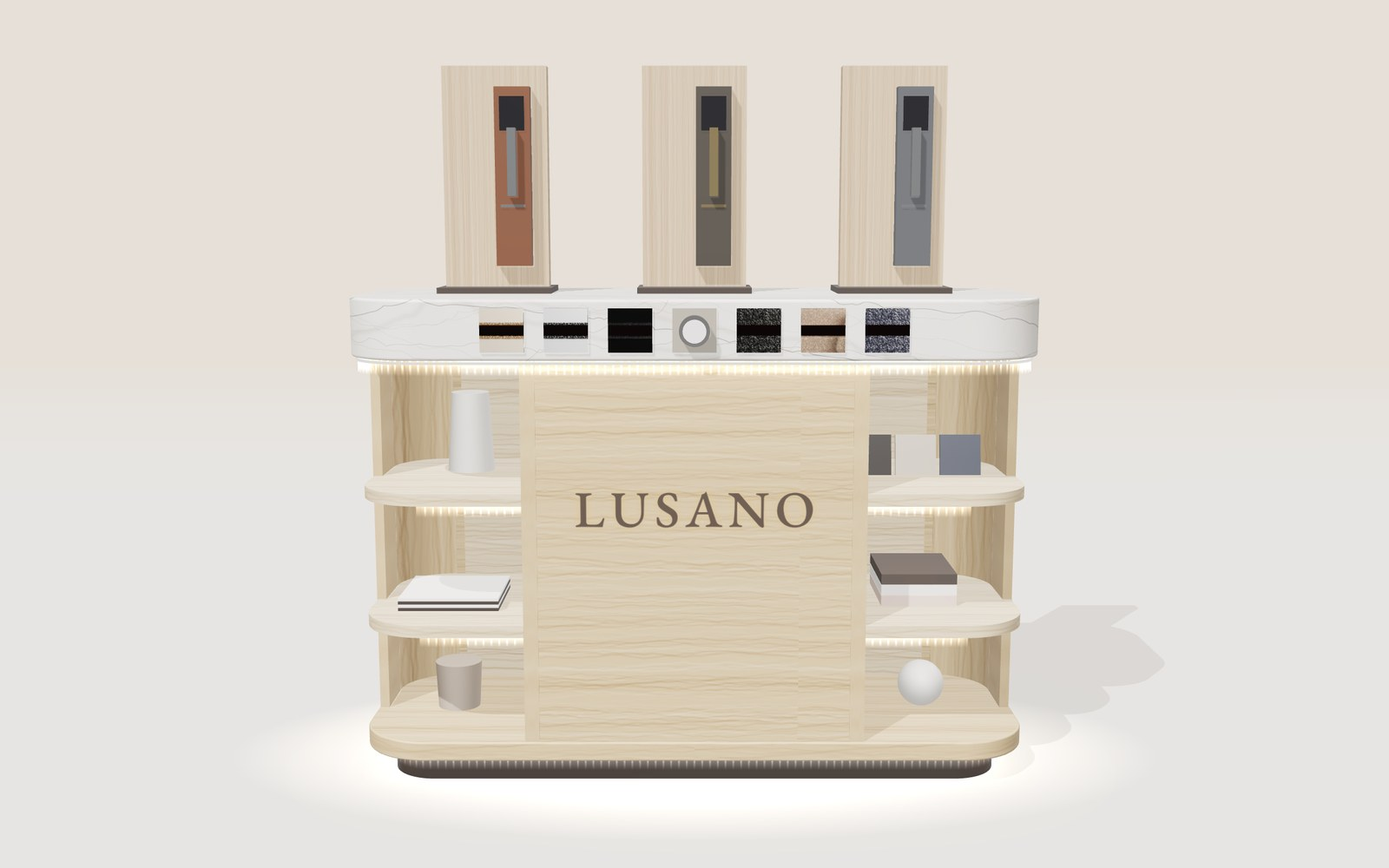
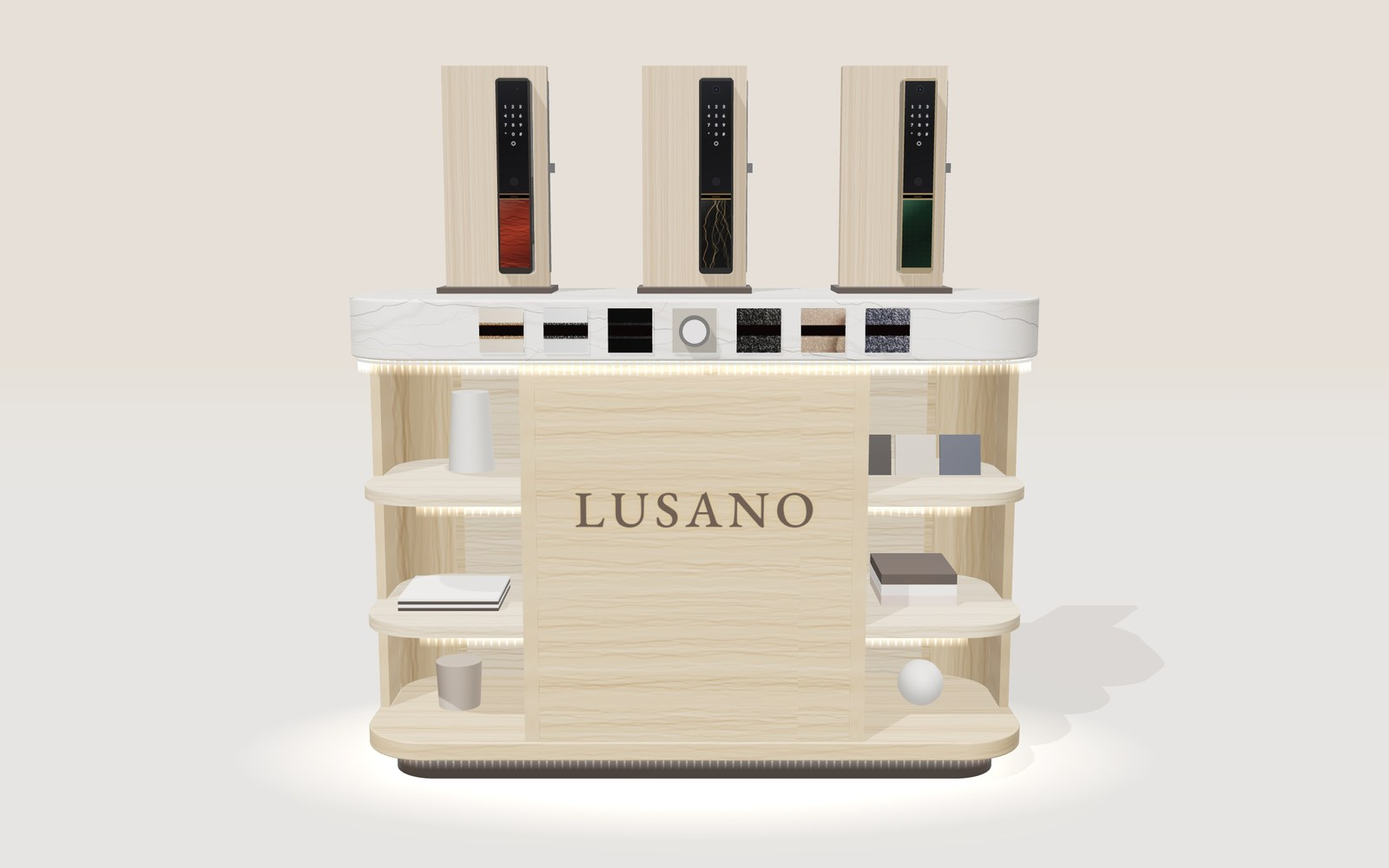
Counter: detailed Lenovo smart lock models
Replaces the placeholder lock blocks with models built from the Lenovo
product photos: a rounded metal body, black glass with a lit keypad,
camera and fingerprint reader, the Lenovo trim band, and a Rosewood,
Gold Aurora Marble or solar-glass panel. Each door panel also gets the
inside unit with thumb-turn and the mortise faceplate. Adds lock
close-up renders and a Locks view in the 3D model.

Claude-Session: https://claude.ai/code/session_019F6wLF1dU4g9eZjhze73rB

Changed region(s): [[0.3438, 0.093, 0.4062, 0.341], [0.625, 0.093, 0.6875, 0.31], [0.5, 0.093, 0.5625, 0.341]]

diff --git a/booth-16x7/table/index.html b/booth-16x7/table/index.html
@@ -155,7 +155,7 @@ footer{border-top:1px solid var(--rule);padding-top:20px;font-size:13px;color:va
         <tbody>
           <tr><td><b>Top</b></td><td>Thick cream stone, rounded corners, glowing lower edge</td><td>White marble with grey and soft gold veining, 120 mm thick so an 86 mm switch fits its front edge, 150 mm corners, LED line underneath</td></tr>
           <tr><td><b>Switches</b></td><td>A row of switches set into the top</td><td>On the front edge of the top: Lusano Noble in Champagne, Ivory and Onyx on the left, the Halo dimmer in the centre, and Lusano Prestige in Onyx, Champagne and Midnight on the right. All with Swarovski crystals</td></tr>
-          <tr><td><b>Door locks</b></td><td>Not in the reference</td><td>Three Lenovo smart locks on the top, each fitted to a small door panel: F3 Ultra in Rosewood, Gold Aurora Marble and Shooting Stars</td></tr>
+          <tr><td><b>Door locks</b></td><td>Not in the reference</td><td>Three Lenovo smart locks modelled from your product photos, each fitted to a small door panel: F3 Ultra in Rosewood, F3 Ultra with camera in Gold Aurora Marble, and The Sun solar lock with its green solar glass</td></tr>
           <tr><td><b>Body</b></td><td>Dark walnut</td><td>Light wood veneer throughout, outside and in</td></tr>
           <tr><td><b>Shelves</b></td><td>Straight at the left, curved at the right, lit</td><td>Open and identical at both ends, curving round the front corners, with an RGBCCT strip under each shelf edge</td></tr>
           <tr><td><b>Centre</b></td><td>An open niche</td><td>Closed with a light wood panel, 660 wide, carrying LUSANO in bronze letters, lit from behind</td></tr>
@@ -169,11 +169,13 @@ footer{border-top:1px solid var(--rule);padding-top:20px;font-size:13px;color:va
   <section aria-labelledby="more">
     <div class="head">
       <span class="eyebrow">More views</span>
-      <h2 id="more">Front, the right end, the switches, and colour</h2>
+      <h2 id="more">Front, the locks, the switches, and colour</h2>
     </div>
     <div class="grid2">
       <figure class="shot"><img src="renders/day-front.jpg" alt="Straight-on front view: curved shelves at both ends and the closed centre with LUSANO" width="1600" height="1000" loading="lazy"><figcaption><b>Front.</b> Matching shelves at both ends, LUSANO in the centre.</figcaption></figure>
       <figure class="shot"><img src="renders/day-end.jpg" alt="Three-quarter view of the right end, showing the curved shelves wrapping the corner" width="1600" height="1000" loading="lazy"><figcaption><b>Right end.</b> The shelves curve round the corner.</figcaption></figure>
+      <figure class="shot"><img src="renders/day-locks.jpg" alt="Close-up of the three Lenovo smart locks on their door panels: black glass with a lit keypad, camera and fingerprint reader above a Rosewood, Gold Aurora Marble or green solar glass panel" width="1600" height="1000" loading="lazy"><figcaption><b>The locks, close.</b> F3 Ultra in Rosewood, F3 Ultra in Gold Aurora Marble, The Sun solar.</figcaption></figure>
+      <figure class="shot"><img src="renders/night-locks.jpg" alt="The three locks with the show lights low, keypads glowing" width="1600" height="1000" loading="lazy"><figcaption><b>Locks, lights low.</b> The keypads glow as they do on a real door.</figcaption></figure>
       <figure class="shot"><img src="renders/day-detail.jpg" alt="Close-up of the front edge: three Lusano Noble switches, the Halo dimmer, and three Lusano Prestige switches with Swarovski crystals" width="1600" height="1000" loading="lazy"><figcaption><b>The front edge, close.</b> Lusano Noble, Halo, Lusano Prestige.</figcaption></figure>
       <figure class="shot"><img src="renders/day-top.jpg" alt="Top-down view: three locks on door panels across the top" width="1600" height="1000" loading="lazy"><figcaption><b>From above.</b> Three locks across the top.</figcaption></figure>
     </div>
@@ -188,6 +190,7 @@ footer{border-top:1px solid var(--rule);padding-top:20px;font-size:13px;color:va
         <button type="button" data-v="front" aria-pressed="false">Front</button>
         <button type="button" data-v="end" aria-pressed="false">Right end</button>
         <button type="button" data-v="detail" aria-pressed="false">Front edge</button>
+        <button type="button" data-v="locks" aria-pressed="false">Locks</button>
         <button type="button" data-v="top" aria-pressed="false">From above</button>
         <button type="button" data-m="night" aria-pressed="false">Warm white</button>
         <button type="button" data-m="colour" aria-pressed="false">Colour</button>
@@ -220,7 +223,8 @@ footer{border-top:1px solid var(--rule);padding-top:20px;font-size:13px;color:va
           <li>1,400 × 500, 150 mm corner radius, 120 mm thick with a crisp, slightly eased edge.</li>
           <li>White marble, or marble-look sintered stone, 12 mm on a plywood core with a built-up edge, so it stays liftable. Real marble needs sealing against stains.</li>
           <li>Seven cut-outs on the front edge, 125 mm apart and centred 60 mm below the top surface: three Lusano Noble at the left, the Halo dimmer in the middle, and three Lusano Prestige at the right, all 86-type. Back boxes sit inside the top's core; wiring runs down through the centre.</li>
-          <li>Three lock displays on top: a 220 × 460 mm door panel on a bronze foot, each with a Lenovo smart lock fitted as on a real door. Bolt the feet through the top so they can't be knocked over.</li>
+          <li>Three lock displays on top: a 220 × 460 mm door panel, 36 mm thick, on a bronze foot. Each carries a real Lenovo lock fitted as on a door: the outside body on the front, the inside unit with its thumb-turn on the back, and the mortise faceplate and latch on the edge. Bolt the feet through the top so they can't be knocked over.</li>
+          <li>Power the locks from their own batteries as normal, so the keypads, cameras and fingerprint readers all work for visitors.</li>
         </ul>
         <h3>Body</h3>
         <ul class="plain">
@@ -459,20 +463,80 @@ window.MaxsenTable = (function () {
       }
     });
 
-    // Lenovo smart locks on the top, each on a small door panel so it reads as a real door
+    // Lenovo smart locks on the top, modelled after the product photos, each on a small door panel
     const doorMat = std({ map: tex(THREE, wood(THREE, '#CDB59A', '150,120,90', '240,226,206'), 1, 1), roughness: .5 });
     doorMat.map.rotation = Math.PI / 2;
-    const LOCKS = [[-.42, 0x5a2a1b, 0x9aa0a6], [0, 0x2a2622, 0xb48a4a], [.42, 0x3a3d42, 0x9aa0a6]];
-    LOCKS.forEach(([x, body, trim]) => {
-      const z0 = -.06;
-      add(new THREE.BoxGeometry(.24, .012, .16), bronze, x, H + .006, z0);
-      add(new THREE.BoxGeometry(.22, .46, .036), doorMat, x, H + .012 + .23, z0);
-      const lz = z0 + .018 + .016;
-      add(new THREE.BoxGeometry(.074, .37, .032), std({ color: body, roughness: .3, metalness: .4 }), x + .04, H + .012 + .23, lz);
-      add(new THREE.BoxGeometry(.052, .07, .004), std({ color: 0x0c0c0e, roughness: .15, metalness: .2 }), x + .04, H + .012 + .36, lz + .017);
-      add(new THREE.BoxGeometry(.052, .006, .004), std({ color: trim, roughness: .25, metalness: .8 }), x + .04, H + .012 + .17, lz + .017);
-      add(new THREE.BoxGeometry(.018, .14, .022), std({ color: trim, roughness: .25, metalness: .8 }), x + .04, H + .012 + .26, lz + .027);
-    });
+    const LOCKS = [
+      { x: -.42, name: 'F3 Ultra · Rosewood', frame: 0x1c1917, trim: '#B9876A', lower: 'rosewood', cam: false },
+      { x: 0, name: 'F3 Ultra · Gold Aurora Marble', frame: 0x161616, trim: '#C9A46A', lower: 'marble', cam: true },
+      { x: .42, name: 'The Sun · solar', frame: 0xA27E4E, trim: '#D8B27A', lower: 'solar', cam: true }
+    ];
+    LOCKS.forEach(L0 => lenovoLock(L0));
+
+    function lenovoLock({ x, frame, trim, lower, cam }) {
+      const z0 = -.06, DT = .036, base = H + .012;
+      add(new THREE.BoxGeometry(.24, .012, .16), bronze, x, H + .006, z0);                // bronze foot
+      add(new THREE.BoxGeometry(.22, .46, DT), doorMat, x, base + .23, z0);                // door panel
+      const LW = .068, LH = .4, LD = .052, lx = x + .045, ly = base + .23, lz = z0 + DT / 2;
+      // body: a rounded metal frame
+      const sh = new THREE.Shape(), r = .008, hw = LW / 2, hh = LH / 2;
+      sh.moveTo(-hw + r, -hh); sh.lineTo(hw - r, -hh); sh.absarc(hw - r, -hh + r, r, -Math.PI / 2, 0); sh.lineTo(hw, hh - r); sh.absarc(hw - r, hh - r, r, 0, Math.PI / 2);
+      sh.lineTo(-hw + r, hh); sh.absarc(-hw + r, hh - r, r, Math.PI / 2, Math.PI); sh.lineTo(-hw, -hh + r); sh.absarc(-hw + r, -hh + r, r, Math.PI, Math.PI * 1.5);
+      const bg = new THREE.ExtrudeGeometry(sh, { depth: LD - .004, bevelEnabled: true, bevelThickness: .002, bevelSize: .0015, bevelSegments: 3, curveSegments: 10 });
+      const frameMat = std({ color: frame, roughness: .28, metalness: .85, envMapIntensity: night ? .3 : .9 });
+      add(bg, frameMat, lx, ly, lz + .002);
+      const fz = lz + LD + .0006;                                        // the front face
+      // upper glass: camera, lit keypad, fingerprint reader
+      const PX = 4000, gw = LW - .006, gh = .228;
+      const [gc, g] = canvas(Math.round(gw * PX), Math.round(gh * PX)), [ec, e] = canvas(gc.width, gc.height);
+      const W2 = gc.width, H2 = gc.height;
+      const gl = g.createLinearGradient(0, 0, W2, H2); gl.addColorStop(0, '#1b1c20'); gl.addColorStop(.5, '#0a0a0c'); gl.addColorStop(1, '#141418');
+      g.fillStyle = gl; g.fillRect(0, 0, W2, H2); e.fillStyle = '#000'; e.fillRect(0, 0, W2, H2);
+      const ring = (ctx, cx, cy, rr, col, w) => { ctx.strokeStyle = col; ctx.lineWidth = w; ctx.beginPath(); ctx.arc(cx, cy, rr, 0, 7); ctx.stroke(); };
+      if (cam) { g.fillStyle = '#050506'; g.beginPath(); g.arc(W2 / 2, 70, 26, 0, 7); g.fill(); ring(g, W2 / 2, 70, 26, '#3a3a40', 4); g.fillStyle = '#20304a'; g.beginPath(); g.arc(W2 / 2, 70, 11, 0, 7); g.fill(); }
+      else { g.fillStyle = '#2a2a30'; g.beginPath(); g.arc(W2 / 2 + 40, 60, 7, 0, 7); g.fill(); }
+      const keys = ['1', '2', '3', '4', '5', '6', '7', '8', '9', '*', '0', '#'];
+      e.fillStyle = '#ffffff'; e.textAlign = 'center'; e.textBaseline = 'middle'; e.font = '600 34px Lato, Arial, sans-serif';
+      keys.forEach((k, i) => e.fillText(k, W2 / 2 + (i % 3 - 1) * 62, 210 + Math.floor(i / 3) * 74));
+      ring(e, W2 / 2, 210 + 4 * 74, 14, '#ffffff', 4);                                   // lock key
+      ring(g, W2 / 2, H2 - 95, 30, '#2c2c32', 5); g.fillStyle = '#101013'; g.beginPath(); g.arc(W2 / 2, H2 - 95, 26, 0, 7); g.fill();
+      for (let k = 0; k < 5; k++) ring(g, W2 / 2, H2 - 95, 6 + k * 4, 'rgba(90,90,100,.6)', 1.2);   // fingerprint ridges
+      const gt = new THREE.CanvasTexture(gc); gt.encoding = THREE.sRGBEncoding; const et = new THREE.CanvasTexture(ec);
+      const glass = new THREE.MeshPhysicalMaterial({ map: gt, emissiveMap: et, emissive: new THREE.Color(0xcfe4ff), emissiveIntensity: night ? 1.1 : .75, roughness: .06, metalness: .1, clearcoat: 1, clearcoatRoughness: .05, envMapIntensity: night ? .4 : 1.1 });
+      add(new THREE.PlaneGeometry(gw, gh), glass, lx, ly + LH / 2 - .006 - gh / 2, fz, { cast: false });
+      // trim band with the Lenovo name
+      const [tc, tg] = canvas(256, 48); tg.fillStyle = trim; tg.fillRect(0, 0, 256, 48);
+      tg.fillStyle = '#0d0d0f'; tg.fillRect(0, 10, 256, 28); tg.fillStyle = trim; tg.font = '600 20px Lato, Arial, sans-serif'; tg.textAlign = 'center'; tg.textBaseline = 'middle'; tg.fillText('Lenovo', 128, 25);
+      const tt = new THREE.CanvasTexture(tc); tt.encoding = THREE.sRGBEncoding;
+      const bandY = ly + LH / 2 - .006 - gh - .007;
+      add(new THREE.PlaneGeometry(gw, .012), std({ map: tt, roughness: .3, metalness: .6 }), lx, bandY, fz + .0002, { cast: false });
+      // lower finish panel: Rosewood, Gold Aurora Marble or solar glass
+      const lh = LH - .012 - gh - .014 - .006;
+      const [lc, lg] = canvas(Math.round(gw * PX), Math.round(lh * PX)), LW2 = lc.width, LH2 = lc.height;
+      if (lower === 'rosewood') {
+        const rg = lg.createLinearGradient(0, 0, LW2, LH2); rg.addColorStop(0, '#4a1a10'); rg.addColorStop(.5, '#6b2a18'); rg.addColorStop(1, '#3a120a'); lg.fillStyle = rg; lg.fillRect(0, 0, LW2, LH2);
+        for (let k = 0; k < 40; k++) { lg.strokeStyle = `rgba(${rnd() > .5 ? '20,6,3' : '150,70,40'},${.2 + rnd() * .35})`; lg.lineWidth = 1 + rnd() * 4; lg.beginPath(); let yy = rnd() * LH2; lg.moveTo(0, yy); for (let xx = 0; xx <= LW2; xx += 20) { yy += Math.sin(xx / 30 + k) * 6 + (rnd() - .5) * 8; lg.lineTo(xx, yy); } lg.stroke(); }
+      } else if (lower === 'marble') {
+        lg.fillStyle = '#0c0c0d'; lg.fillRect(0, 0, LW2, LH2);
+        for (let k = 0; k < 9; k++) { lg.strokeStyle = `rgba(${200 + rnd() * 40},${160 + rnd() * 30},${90 + rnd() * 30},${.4 + rnd() * .5})`; lg.lineWidth = .8 + rnd() * 2.4; lg.beginPath(); let xx = rnd() * LW2, yy = 0; lg.moveTo(xx, yy); while (yy < LH2) { xx += (rnd() - .5) * 60; yy += 20 + rnd() * 40; lg.lineTo(xx, yy); } lg.stroke(); }
+      } else {
+        const sg2 = lg.createLinearGradient(0, 0, LW2, LH2); sg2.addColorStop(0, '#0e2a1c'); sg2.addColorStop(.6, '#05140c'); sg2.addColorStop(1, '#0b2116'); lg.fillStyle = sg2; lg.fillRect(0, 0, LW2, LH2);
+        lg.strokeStyle = 'rgba(120,200,160,.12)'; lg.lineWidth = 1; for (let yy = 0; yy < LH2; yy += 40) { lg.beginPath(); lg.moveTo(0, yy); lg.lineTo(LW2, yy); lg.stroke(); }
+        for (let xx = 0; xx < LW2; xx += 62) { lg.beginPath(); lg.moveTo(xx, 0); lg.lineTo(xx, LH2); lg.stroke(); }
+      }
+      const shine = lg.createLinearGradient(0, 0, LW2, LH2 * .6); shine.addColorStop(0, 'rgba(255,255,255,.12)'); shine.addColorStop(.4, 'rgba(255,255,255,0)'); lg.fillStyle = shine; lg.fillRect(0, 0, LW2, LH2);
+      const lt = new THREE.CanvasTexture(lc); lt.encoding = THREE.sRGBEncoding;
+      add(new THREE.PlaneGeometry(gw, lh), new THREE.MeshPhysicalMaterial({ map: lt, roughness: .12, clearcoat: 1, clearcoatRoughness: .08, envMapIntensity: night ? .4 : 1 }), lx, bandY - .007 - lh / 2, fz, { cast: false });
+      // push-pull grip: a recessed slot down the free side of the body
+      add(new THREE.BoxGeometry(.003, .14, .024), std({ color: 0x0a0a0a, roughness: .5 }), lx + LW / 2 + .0005, ly - .07, lz + LD / 2 + .004, { cast: false });
+      // the inside unit on the back of the door, with a thumb-turn
+      add(new THREE.BoxGeometry(.066, .3, .03), std({ color: 0x1e1e20, roughness: .35, metalness: .4 }), lx, ly, z0 - DT / 2 - .015);
+      const turn = new THREE.CylinderGeometry(.014, .014, .012, 24); turn.rotateX(Math.PI / 2);
+      add(turn, frameMat, lx, ly - .04, z0 - DT / 2 - .036);
+      // mortise faceplate and latch on the door's edge
+      add(new THREE.BoxGeometry(.002, .4, .024), std({ color: 0xC8C8CC, roughness: .25, metalness: .95 }), x + .111, ly, z0);
+      add(new THREE.BoxGeometry(.012, .02, .014), std({ color: 0xC8C8CC, roughness: .25, metalness: .95 }), x + .117, ly + .02, z0);
+    }
 
     // body: bottom board, back, dividers and ends, in Midnight Bronze wood
     add(slab(THREE, rr(THREE, BL, BD, BR), .04, .004), bodyMat, 0, Y0, 0);
@@ -549,6 +613,7 @@ window.MaxsenTable = (function () {
     front:  { pos: [0, 1.15, 3.1], at: [0, .7, 0], fov: 33 },
     end:    { pos: [2.2, 1.45, 1.85], at: [.3, .68, .05], fov: 34 },
     detail: { pos: [.25, 1.08, 1.0], at: [0, .95, .3], fov: 36 },
+    locks:  { pos: [.05, 1.36, 1.12], at: [.03, 1.2, -.04], fov: 38 },
     top:    { pos: [0, 3.1, .35], at: [0, .9, 0], fov: 30 }
   };
 

diff --git a/booth-16x7/table/src/table2.js b/booth-16x7/table/src/table2.js
@@ -191,20 +191,80 @@ window.MaxsenTable = (function () {
       }
     });
 
-    // Lenovo smart locks on the top, each on a small door panel so it reads as a real door
+    // Lenovo smart locks on the top, modelled after the product photos, each on a small door panel
     const doorMat = std({ map: tex(THREE, wood(THREE, '#CDB59A', '150,120,90', '240,226,206'), 1, 1), roughness: .5 });
     doorMat.map.rotation = Math.PI / 2;
-    const LOCKS = [[-.42, 0x5a2a1b, 0x9aa0a6], [0, 0x2a2622, 0xb48a4a], [.42, 0x3a3d42, 0x9aa0a6]];
-    LOCKS.forEach(([x, body, trim]) => {
-      const z0 = -.06;
-      add(new THREE.BoxGeometry(.24, .012, .16), bronze, x, H + .006, z0);
-      add(new THREE.BoxGeometry(.22, .46, .036), doorMat, x, H + .012 + .23, z0);
-      const lz = z0 + .018 + .016;
-      add(new THREE.BoxGeometry(.074, .37, .032), std({ color: body, roughness: .3, metalness: .4 }), x + .04, H + .012 + .23, lz);
-      add(new THREE.BoxGeometry(.052, .07, .004), std({ color: 0x0c0c0e, roughness: .15, metalness: .2 }), x + .04, H + .012 + .36, lz + .017);
-      add(new THREE.BoxGeometry(.052, .006, .004), std({ color: trim, roughness: .25, metalness: .8 }), x + .04, H + .012 + .17, lz + .017);
-      add(new THREE.BoxGeometry(.018, .14, .022), std({ color: trim, roughness: .25, metalness: .8 }), x + .04, H + .012 + .26, lz + .027);
-    });
+    const LOCKS = [
+      { x: -.42, name: 'F3 Ultra · Rosewood', frame: 0x1c1917, trim: '#B9876A', lower: 'rosewood', cam: false },
+      { x: 0, name: 'F3 Ultra · Gold Aurora Marble', frame: 0x161616, trim: '#C9A46A', lower: 'marble', cam: true },
+      { x: .42, name: 'The Sun · solar', frame: 0xA27E4E, trim: '#D8B27A', lower: 'solar', cam: true }
+    ];
+    LOCKS.forEach(L0 => lenovoLock(L0));
+
+    function lenovoLock({ x, frame, trim, lower, cam }) {
+      const z0 = -.06, DT = .036, base = H + .012;
+      add(new THREE.BoxGeometry(.24, .012, .16), bronze, x, H + .006, z0);                // bronze foot
+      add(new THREE.BoxGeometry(.22, .46, DT), doorMat, x, base + .23, z0);                // door panel
+      const LW = .068, LH = .4, LD = .052, lx = x + .045, ly = base + .23, lz = z0 + DT / 2;
+      // body: a rounded metal frame
+      const sh = new THREE.Shape(), r = .008, hw = LW / 2, hh = LH / 2;
+      sh.moveTo(-hw + r, -hh); sh.lineTo(hw - r, -hh); sh.absarc(hw - r, -hh + r, r, -Math.PI / 2, 0); sh.lineTo(hw, hh - r); sh.absarc(hw - r, hh - r, r, 0, Math.PI / 2);
+      sh.lineTo(-hw + r, hh); sh.absarc(-hw + r, hh - r, r, Math.PI / 2, Math.PI); sh.lineTo(-hw, -hh + r); sh.absarc(-hw + r, -hh + r, r, Math.PI, Math.PI * 1.5);
+      const bg = new THREE.ExtrudeGeometry(sh, { depth: LD - .004, bevelEnabled: true, bevelThickness: .002, bevelSize: .0015, bevelSegments: 3, curveSegments: 10 });
+      const frameMat = std({ color: frame, roughness: .28, metalness: .85, envMapIntensity: night ? .3 : .9 });
+      add(bg, frameMat, lx, ly, lz + .002);
+      const fz = lz + LD + .0006;                                        // the front face
+      // upper glass: camera, lit keypad, fingerprint reader
+      const PX = 4000, gw = LW - .006, gh = .228;
+      const [gc, g] = canvas(Math.round(gw * PX), Math.round(gh * PX)), [ec, e] = canvas(gc.width, gc.height);
+      const W2 = gc.width, H2 = gc.height;
+      const gl = g.createLinearGradient(0, 0, W2, H2); gl.addColorStop(0, '#1b1c20'); gl.addColorStop(.5, '#0a0a0c'); gl.addColorStop(1, '#141418');
+      g.fillStyle = gl; g.fillRect(0, 0, W2, H2); e.fillStyle = '#000'; e.fillRect(0, 0, W2, H2);
+      const ring = (ctx, cx, cy, rr, col, w) => { ctx.strokeStyle = col; ctx.lineWidth = w; ctx.beginPath(); ctx.arc(cx, cy, rr, 0, 7); ctx.stroke(); };
+      if (cam) { g.fillStyle = '#050506'; g.beginPath(); g.arc(W2 / 2, 70, 26, 0, 7); g.fill(); ring(g, W2 / 2, 70, 26, '#3a3a40', 4); g.fillStyle = '#20304a'; g.beginPath(); g.arc(W2 / 2, 70, 11, 0, 7); g.fill(); }
+      else { g.fillStyle = '#2a2a30'; g.beginPath(); g.arc(W2 / 2 + 40, 60, 7, 0, 7); g.fill(); }
+      const keys = ['1', '2', '3', '4', '5', '6', '7', '8', '9', '*', '0', '#'];
+      e.fillStyle = '#ffffff'; e.textAlign = 'center'; e.textBaseline = 'middle'; e.font = '600 34px Lato, Arial, sans-serif';
+      keys.forEach((k, i) => e.fillText(k, W2 / 2 + (i % 3 - 1) * 62, 210 + Math.floor(i / 3) * 74));
+      ring(e, W2 / 2, 210 + 4 * 74, 14, '#ffffff', 4);                                   // lock key
+      ring(g, W2 / 2, H2 - 95, 30, '#2c2c32', 5); g.fillStyle = '#101013'; g.beginPath(); g.arc(W2 / 2, H2 - 95, 26, 0, 7); g.fill();
+      for (let k = 0; k < 5; k++) ring(g, W2 / 2, H2 - 95, 6 + k * 4, 'rgba(90,90,100,.6)', 1.2);   // fingerprint ridges
+      const gt = new THREE.CanvasTexture(gc); gt.encoding = THREE.sRGBEncoding; const et = new THREE.CanvasTexture(ec);
+      const glass = new THREE.MeshPhysicalMaterial({ map: gt, emissiveMap: et, emissive: new THREE.Color(0xcfe4ff), emissiveIntensity: night ? 1.1 : .75, roughness: .06, metalness: .1, clearcoat: 1, clearcoatRoughness: .05, envMapIntensity: night ? .4 : 1.1 });
+      add(new THREE.PlaneGeometry(gw, gh), glass, lx, ly + LH / 2 - .006 - gh / 2, fz, { cast: false });
+      // trim band with the Lenovo name
+      const [tc, tg] = canvas(256, 48); tg.fillStyle = trim; tg.fillRect(0, 0, 256, 48);
+      tg.fillStyle = '#0d0d0f'; tg.fillRect(0, 10, 256, 28); tg.fillStyle = trim; tg.font = '600 20px Lato, Arial, sans-serif'; tg.textAlign = 'center'; tg.textBaseline = 'middle'; tg.fillText('Lenovo', 128, 25);
+      const tt = new THREE.CanvasTexture(tc); tt.encoding = THREE.sRGBEncoding;
+      const bandY = ly + LH / 2 - .006 - gh - .007;
+      add(new THREE.PlaneGeometry(gw, .012), std({ map: tt, roughness: .3, metalness: .6 }), lx, bandY, fz + .0002, { cast: false });
+      // lower finish panel: Rosewood, Gold Aurora Marble or solar glass
+      const lh = LH - .012 - gh - .014 - .006;
+      const [lc, lg] = canvas(Math.round(gw * PX), Math.round(lh * PX)), LW2 = lc.width, LH2 = lc.height;
+      if (lower === 'rosewood') {
+        const rg = lg.createLinearGradient(0, 0, LW2, LH2); rg.addColorStop(0, '#4a1a10'); rg.addColorStop(.5, '#6b2a18'); rg.addColorStop(1, '#3a120a'); lg.fillStyle = rg; lg.fillRect(0, 0, LW2, LH2);
+        for (let k = 0; k < 40; k++) { lg.strokeStyle = `rgba(${rnd() > .5 ? '20,6,3' : '150,70,40'},${.2 + rnd() * .35})`; lg.lineWidth = 1 + rnd() * 4; lg.beginPath(); let yy = rnd() * LH2; lg.moveTo(0, yy); for (let xx = 0; xx <= LW2; xx += 20) { yy += Math.sin(xx / 30 + k) * 6 + (rnd() - .5) * 8; lg.lineTo(xx, yy); } lg.stroke(); }
+      } else if (lower === 'marble') {
+        lg.fillStyle = '#0c0c0d'; lg.fillRect(0, 0, LW2, LH2);
+        for (let k = 0; k < 9; k++) { lg.strokeStyle = `rgba(${200 + rnd() * 40},${160 + rnd() * 30},${90 + rnd() * 30},${.4 + rnd() * .5})`; lg.lineWidth = .8 + rnd() * 2.4; lg.beginPath(); let xx = rnd() * LW2, yy = 0; lg.moveTo(xx, yy); while (yy < LH2) { xx += (rnd() - .5) * 60; yy += 20 + rnd() * 40; lg.lineTo(xx, yy); } lg.stroke(); }
+      } else {
+        const sg2 = lg.createLinearGradient(0, 0, LW2, LH2); sg2.addColorStop(0, '#0e2a1c'); sg2.addColorStop(.6, '#05140c'); sg2.addColorStop(1, '#0b2116'); lg.fillStyle = sg2; lg.fillRect(0, 0, LW2, LH2);
+        lg.strokeStyle = 'rgba(120,200,160,.12)'; lg.lineWidth = 1; for (let yy = 0; yy < LH2; yy += 40) { lg.beginPath(); lg.moveTo(0, yy); lg.lineTo(LW2, yy); lg.stroke(); }
+        for (let xx = 0; xx < LW2; xx += 62) { lg.beginPath(); lg.moveTo(xx, 0); lg.lineTo(xx, LH2); lg.stroke(); }
+      }
+      const shine = lg.createLinearGradient(0, 0, LW2, LH2 * .6); shine.addColorStop(0, 'rgba(255,255,255,.12)'); shine.addColorStop(.4, 'rgba(255,255,255,0)'); lg.fillStyle = shine; lg.fillRect(0, 0, LW2, LH2);
+      const lt = new THREE.CanvasTexture(lc); lt.encoding = THREE.sRGBEncoding;
+      add(new THREE.PlaneGeometry(gw, lh), new THREE.MeshPhysicalMaterial({ map: lt, roughness: .12, clearcoat: 1, clearcoatRoughness: .08, envMapIntensity: night ? .4 : 1 }), lx, bandY - .007 - lh / 2, fz, { cast: false });
+      // push-pull grip: a recessed slot down the free side of the body
+      add(new THREE.BoxGeometry(.003, .14, .024), std({ color: 0x0a0a0a, roughness: .5 }), lx + LW / 2 + .0005, ly - .07, lz + LD / 2 + .004, { cast: false });
+      // the inside unit on the back of the door, with a thumb-turn
+      add(new THREE.BoxGeometry(.066, .3, .03), std({ color: 0x1e1e20, roughness: .35, metalness: .4 }), lx, ly, z0 - DT / 2 - .015);
+      const turn = new THREE.CylinderGeometry(.014, .014, .012, 24); turn.rotateX(Math.PI / 2);
+      add(turn, frameMat, lx, ly - .04, z0 - DT / 2 - .036);
+      // mortise faceplate and latch on the door's edge
+      add(new THREE.BoxGeometry(.002, .4, .024), std({ color: 0xC8C8CC, roughness: .25, metalness: .95 }), x + .111, ly, z0);
+      add(new THREE.BoxGeometry(.012, .02, .014), std({ color: 0xC8C8CC, roughness: .25, metalness: .95 }), x + .117, ly + .02, z0);
+    }
 
     // body: bottom board, back, dividers and ends, in Midnight Bronze wood
     add(slab(THREE, rr(THREE, BL, BD, BR), .04, .004), bodyMat, 0, Y0, 0);
@@ -281,6 +341,7 @@ window.MaxsenTable = (function () {
     front:  { pos: [0, 1.15, 3.1], at: [0, .7, 0], fov: 33 },
     end:    { pos: [2.2, 1.45, 1.85], at: [.3, .68, .05], fov: 34 },
     detail: { pos: [.25, 1.08, 1.0], at: [0, .95, .3], fov: 36 },
+    locks:  { pos: [.05, 1.36, 1.12], at: [.03, 1.2, -.04], fov: 38 },
     top:    { pos: [0, 3.1, .35], at: [0, .9, 0], fov: 30 }
   };
 

diff --git a/booth-16x7/table/src/template2.html b/booth-16x7/table/src/template2.html
@@ -155,7 +155,7 @@ footer{border-top:1px solid var(--rule);padding-top:20px;font-size:13px;color:va
         <tbody>
           <tr><td><b>Top</b></td><td>Thick cream stone, rounded corners, glowing lower edge</td><td>White marble with grey and soft gold veining, 120 mm thick so an 86 mm switch fits its front edge, 150 mm corners, LED line underneath</td></tr>
           <tr><td><b>Switches</b></td><td>A row of switches set into the top</td><td>On the front edge of the top: Lusano Noble in Champagne, Ivory and Onyx on the left, the Halo dimmer in the centre, and Lusano Prestige in Onyx, Champagne and Midnight on the right. All with Swarovski crystals</td></tr>
-          <tr><td><b>Door locks</b></td><td>Not in the reference</td><td>Three Lenovo smart locks on the top, each fitted to a small door panel: F3 Ultra in Rosewood, Gold Aurora Marble and Shooting Stars</td></tr>
+          <tr><td><b>Door locks</b></td><td>Not in the reference</td><td>Three Lenovo smart locks modelled from your product photos, each fitted to a small door panel: F3 Ultra in Rosewood, F3 Ultra with camera in Gold Aurora Marble, and The Sun solar lock with its green solar glass</td></tr>
           <tr><td><b>Body</b></td><td>Dark walnut</td><td>Light wood veneer throughout, outside and in</td></tr>
           <tr><td><b>Shelves</b></td><td>Straight at the left, curved at the right, lit</td><td>Open and identical at both ends, curving round the front corners, with an RGBCCT strip under each shelf edge</td></tr>
           <tr><td><b>Centre</b></td><td>An open niche</td><td>Closed with a light wood panel, 660 wide, carrying LUSANO in bronze letters, lit from behind</td></tr>
@@ -169,11 +169,13 @@ footer{border-top:1px solid var(--rule);padding-top:20px;font-size:13px;color:va
   <section aria-labelledby="more">
     <div class="head">
       <span class="eyebrow">More views</span>
-      <h2 id="more">Front, the right end, the switches, and colour</h2>
+      <h2 id="more">Front, the locks, the switches, and colour</h2>
     </div>
     <div class="grid2">
       <figure class="shot"><img src="renders/day-front.jpg" alt="Straight-on front view: curved shelves at both ends and the closed centre with LUSANO" width="1600" height="1000" loading="lazy"><figcaption><b>Front.</b> Matching shelves at both ends, LUSANO in the centre.</figcaption></figure>
       <figure class="shot"><img src="renders/day-end.jpg" alt="Three-quarter view of the right end, showing the curved shelves wrapping the corner" width="1600" height="1000" loading="lazy"><figcaption><b>Right end.</b> The shelves curve round the corner.</figcaption></figure>
+      <figure class="shot"><img src="renders/day-locks.jpg" alt="Close-up of the three Lenovo smart locks on their door panels: black glass with a lit keypad, camera and fingerprint reader above a Rosewood, Gold Aurora Marble or green solar glass panel" width="1600" height="1000" loading="lazy"><figcaption><b>The locks, close.</b> F3 Ultra in Rosewood, F3 Ultra in Gold Aurora Marble, The Sun solar.</figcaption></figure>
+      <figure class="shot"><img src="renders/night-locks.jpg" alt="The three locks with the show lights low, keypads glowing" width="1600" height="1000" loading="lazy"><figcaption><b>Locks, lights low.</b> The keypads glow as they do on a real door.</figcaption></figure>
       <figure class="shot"><img src="renders/day-detail.jpg" alt="Close-up of the front edge: three Lusano Noble switches, the Halo dimmer, and three Lusano Prestige switches with Swarovski crystals" width="1600" height="1000" loading="lazy"><figcaption><b>The front edge, close.</b> Lusano Noble, Halo, Lusano Prestige.</figcaption></figure>
       <figure class="shot"><img src="renders/day-top.jpg" alt="Top-down view: three locks on door panels across the top" width="1600" height="1000" loading="lazy"><figcaption><b>From above.</b> Three locks across the top.</figcaption></figure>
     </div>
@@ -188,6 +190,7 @@ footer{border-top:1px solid var(--rule);padding-top:20px;font-size:13px;color:va
         <button type="button" data-v="front" aria-pressed="false">Front</button>
         <button type="button" data-v="end" aria-pressed="false">Right end</button>
         <button type="button" data-v="detail" aria-pressed="false">Front edge</button>
+        <button type="button" data-v="locks" aria-pressed="false">Locks</button>
         <button type="button" data-v="top" aria-pressed="false">From above</button>
         <button type="button" data-m="night" aria-pressed="false">Warm white</button>
         <button type="button" data-m="colour" aria-pressed="false">Colour</button>
@@ -220,7 +223,8 @@ footer{border-top:1px solid var(--rule);padding-top:20px;font-size:13px;color:va
           <li>1,400 × 500, 150 mm corner radius, 120 mm thick with a crisp, slightly eased edge.</li>
           <li>White marble, or marble-look sintered stone, 12 mm on a plywood core with a built-up edge, so it stays liftable. Real marble needs sealing against stains.</li>
           <li>Seven cut-outs on the front edge, 125 mm apart and centred 60 mm below the top surface: three Lusano Noble at the left, the Halo dimmer in the middle, and three Lusano Prestige at the right, all 86-type. Back boxes sit inside the top's core; wiring runs down through the centre.</li>
-          <li>Three lock displays on top: a 220 × 460 mm door panel on a bronze foot, each with a Lenovo smart lock fitted as on a real door. Bolt the feet through the top so they can't be knocked over.</li>
+          <li>Three lock displays on top: a 220 × 460 mm door panel, 36 mm thick, on a bronze foot. Each carries a real Lenovo lock fitted as on a door: the outside body on the front, the inside unit with its thumb-turn on the back, and the mortise faceplate and latch on the edge. Bolt the feet through the top so they can't be knocked over.</li>
+          <li>Power the locks from their own batteries as normal, so the keypads, cameras and fingerprint readers all work for visitors.</li>
         </ul>
         <h3>Body</h3>
         <ul class="plain">
